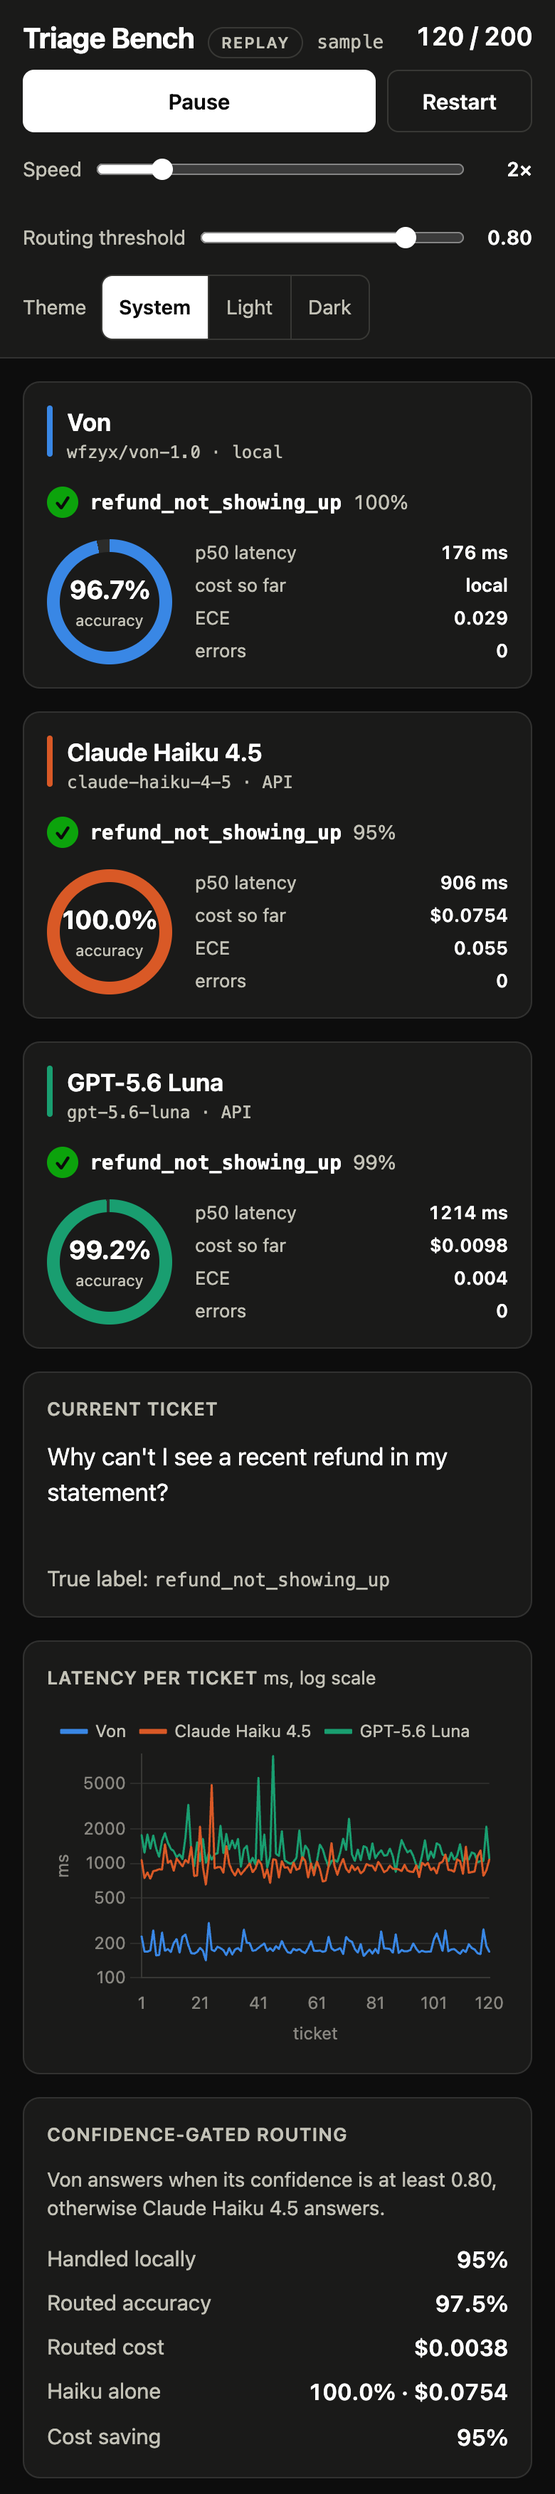
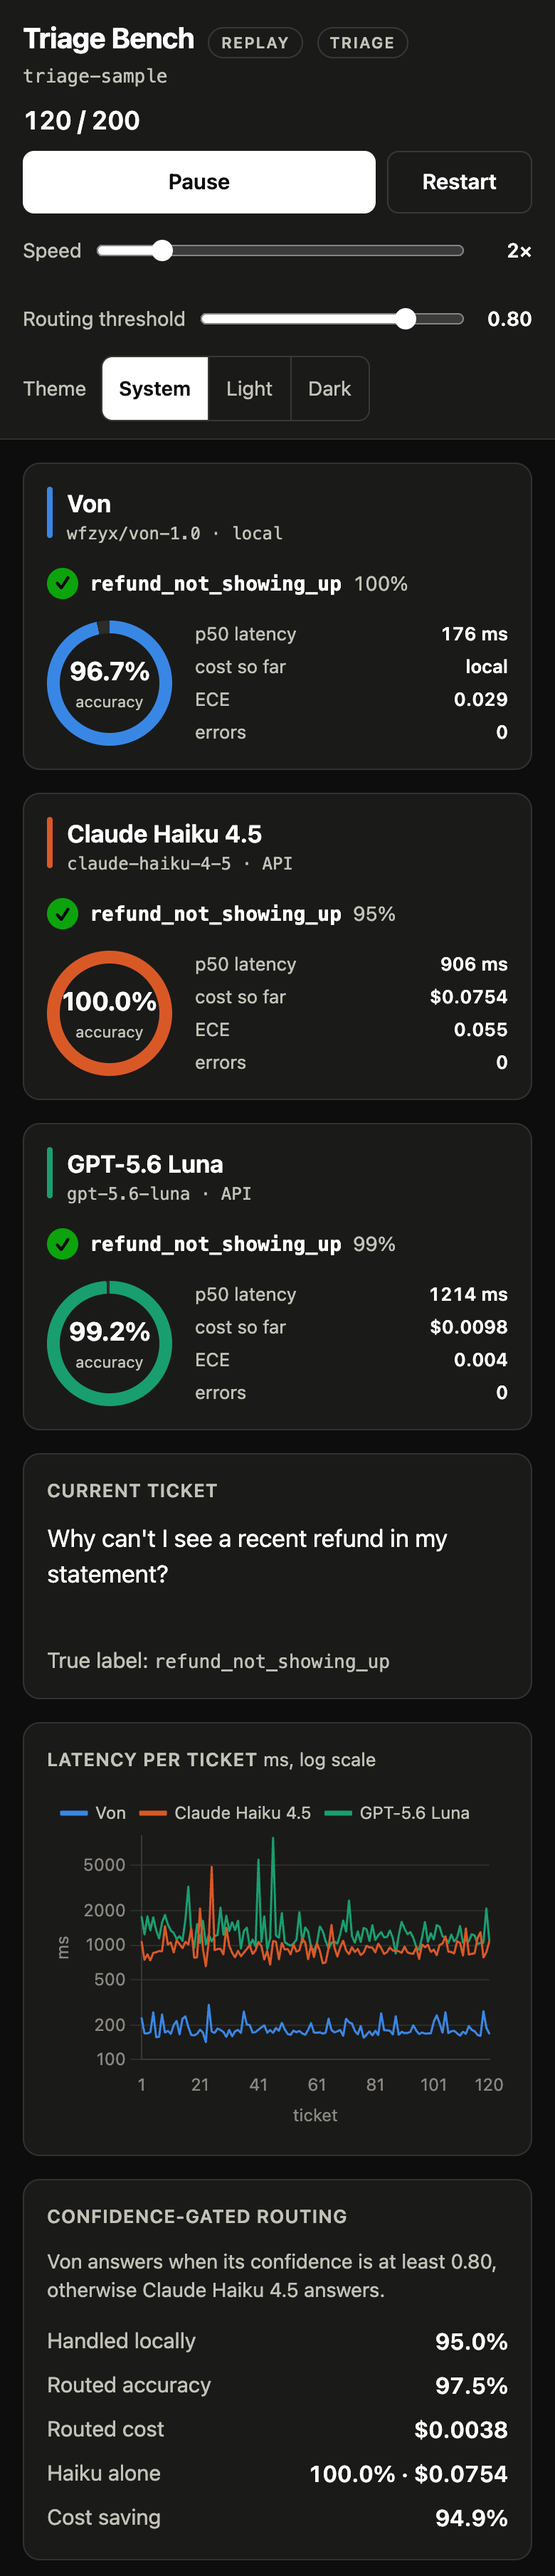
Update README routing numbers and screenshots to one decimal
The report now prints shares with one decimal; the README bullets, alt
text and screenshots show what it and the dashboard print.

diff --git a/README.md b/README.md
@@ -2,7 +2,7 @@
 
 A local System One decision model against two hosted LLMs on two tasks — 8-way support-ticket intent triage and binary customer-review sentiment — streamed item by item to a live dashboard.
 
-![Dashboard at ticket 120 of 200: cards for Von (96.7%, 176 ms p50), Claude Haiku 4.5 (100.0%, 906 ms) and GPT-5.6 Luna (99.2%, 1214 ms), a log-scale latency chart, and the routing panel with Von handling 95% locally](docs/screenshots/dashboard-mid-run.png)
+![Dashboard at ticket 120 of 200: cards for Von (96.7%, 176 ms p50), Claude Haiku 4.5 (100.0%, 906 ms) and GPT-5.6 Luna (99.2%, 1214 ms), a log-scale latency chart, and the routing panel with Von handling 95.0% locally](docs/screenshots/dashboard-mid-run.png)
 
 ## Contestants
 
@@ -30,10 +30,10 @@ ECE is expected calibration error: lower is better. Routing keeps Von's answer w
 
 The report's routing summary at threshold 0.80, restated:
 
-- Handled locally by Von: 97%, rest to Haiku.
+- Handled locally by Von: 97.0%, rest to Haiku.
 - Routed: accuracy 97.5%, cost $0.0038.
 - Haiku alone: accuracy 100.0%, cost $0.1256.
-- Cost saving: 97%.
+- Cost saving: 97.0%.
 
 ### Sentiment: 200 Amazon Polarity reviews
 
@@ -47,10 +47,10 @@ The report's routing summary at threshold 0.80, restated:
 
 Routing summary at threshold 0.80, restated:
 
-- Handled locally by Von: 99.5% (199 of 200), rest to Haiku.
+- Handled locally by Von: 99.5%, rest to Haiku.
 - Routed: accuracy 98.0%, cost $0.0006.
 - Haiku alone: accuracy 97.0%, cost $0.1071.
-- Cost saving: 99%.
+- Cost saving: 99.4%.
 
 ## Quick start: replay (no keys)
 
@@ -79,7 +79,7 @@ uv run --env-file .env triage-bench live
 
 | Finished run | Threshold at 0.95 | Phone (390 px) | Sentiment run |
 |---|---|---|---|
-| ![Finished run at 200 of 200 with final totals, latency chart of all 200 tickets and the scrollable tickets feed](docs/screenshots/dashboard-finished.png) | ![Routing threshold slider at 0.95: 93% handled locally, 98.5% routed accuracy, 93% cost saving](docs/screenshots/dashboard-threshold-095.png) | ![Single-column phone layout at ticket 120: controls, stacked cards, chart and routing panel](docs/screenshots/dashboard-phone.png) | ![Finished sentiment run at 200 of 200 with the review feed](docs/screenshots/sentiment/dashboard-finished.png) |
+| ![Finished run at 200 of 200 with final totals, latency chart of all 200 tickets and the scrollable tickets feed](docs/screenshots/dashboard-finished.png) | ![Routing threshold slider at 0.95: 93.0% handled locally, 98.5% routed accuracy, 93.0% cost saving](docs/screenshots/dashboard-threshold-095.png) | ![Single-column phone layout at ticket 120: controls, stacked cards, chart and routing panel](docs/screenshots/dashboard-phone.png) | ![Finished sentiment run at 200 of 200 with the review feed](docs/screenshots/sentiment/dashboard-finished.png) |
 
 ## Fairness
 
